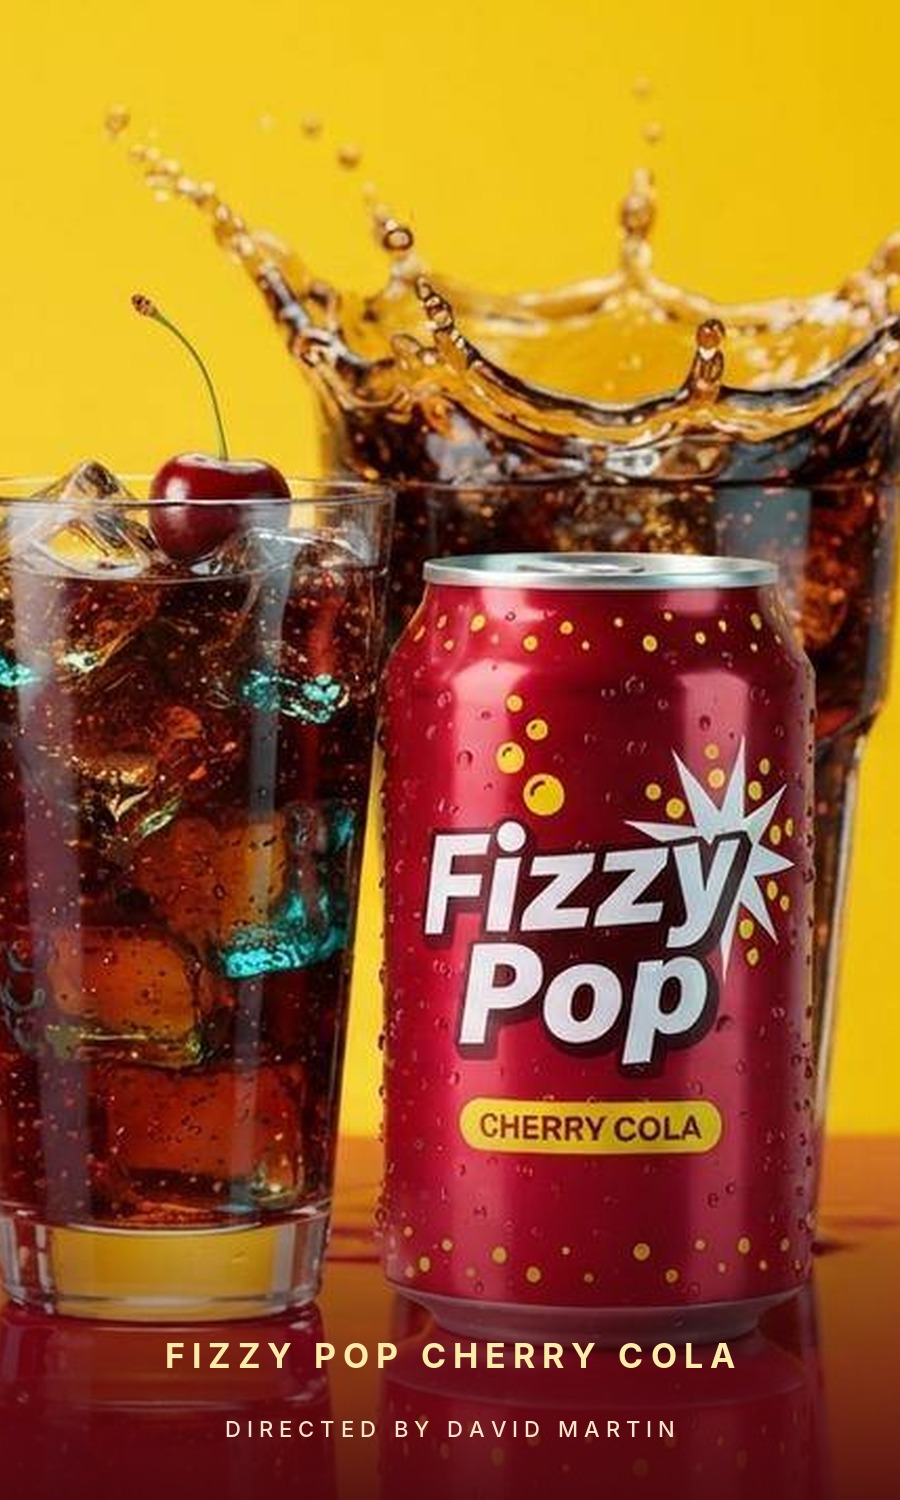
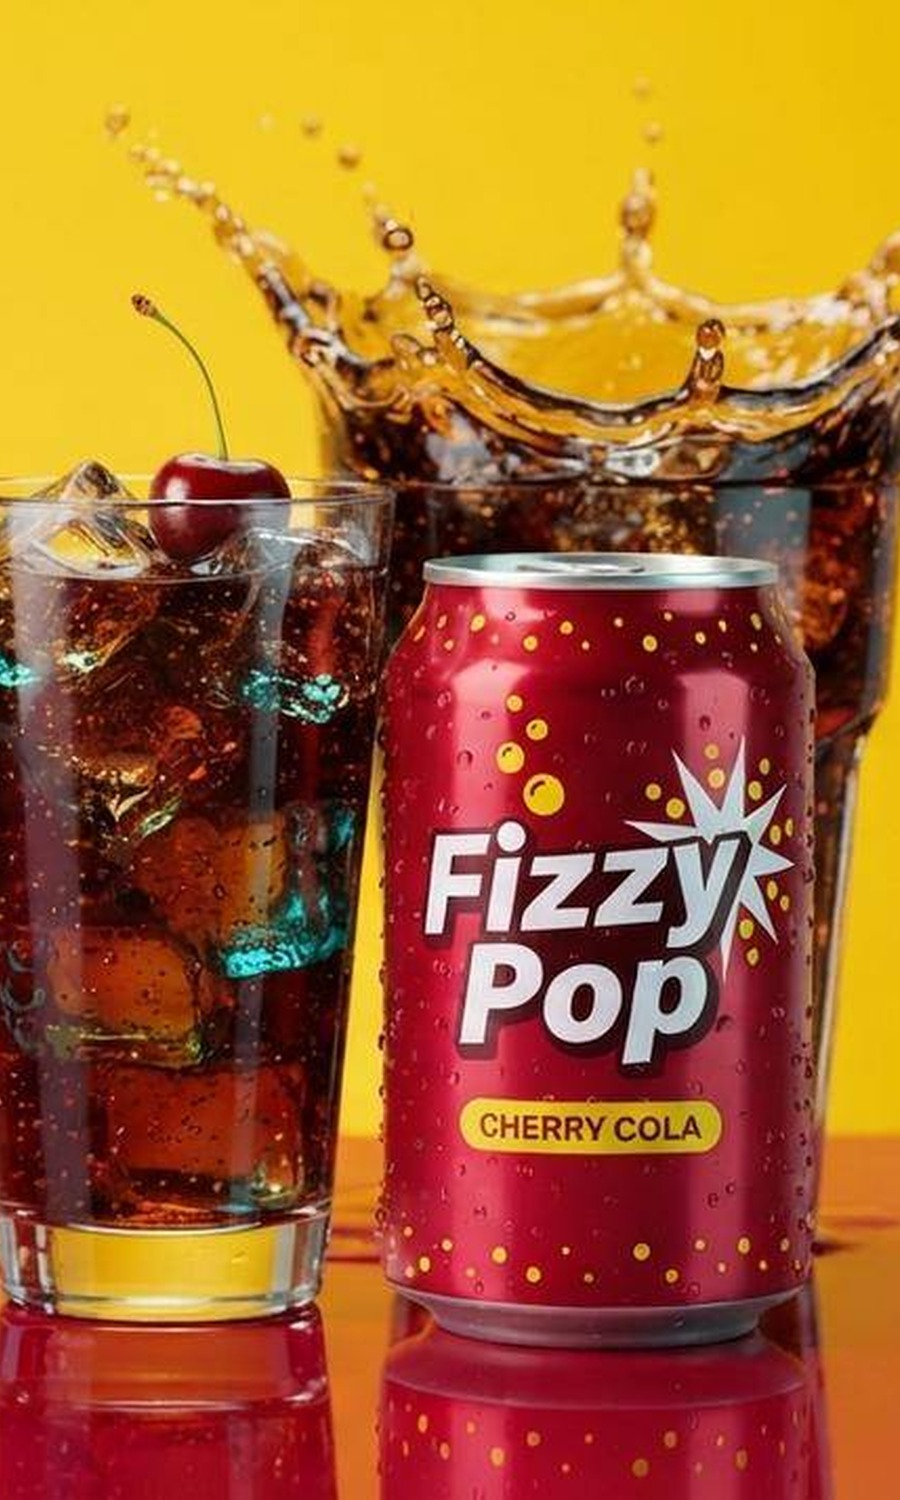
Home hero: text-free posters, Fizzy Pop label on the table bottle
Claude-Session: https://claude.ai/code/session_016tvzwU3cz4MoTCXz6b5jFJ

Changed region(s): [[0.0, 0.7973, 1.0, 1.0], [0.6844, 0.828, 0.7156, 0.8587]]

diff --git a/public/index.html b/public/index.html
@@ -1,5 +1,5 @@
 <!doctype html><html lang="en"><head><meta charset="utf-8"><meta name="viewport" content="width=device-width, initial-scale=1, viewport-fit=cover"><title>David Martin | Creative Professional</title><meta name="description" content="Creative Director with a video and visual-content specialty. I create and direct video, visual content, campaigns and digital experiences, combining creative direction with hands-on production and emerging AI technology."><link rel="canonical" href="https://studio.madebydavidmartin.com/"><meta name="theme-color" content="#231A10"><meta name="author" content="David Martin"><meta property="og:type" content="website"><meta property="og:site_name" content="David Martin, Creative Professional"><meta property="og:title" content="David Martin | Creative Professional"><meta property="og:description" content="Creative Director with a video and visual-content specialty. I create and direct video, visual content, campaigns and digital experiences, combining creative direction with hands-on production and emerging AI technology."><meta property="og:url" content="https://studio.madebydavidmartin.com/"><meta property="og:image" content="https://studio.madebydavidmartin.com/img/og-card.jpg?v=2"><meta property="og:image:width" content="1200"><meta property="og:image:height" content="630"><meta name="twitter:card" content="summary_large_image"><meta name="twitter:image" content="https://studio.madebydavidmartin.com/img/og-card.jpg?v=2"><link rel="icon" href="favicon.svg" type="image/svg+xml"><link rel="icon" href="favicon.ico" sizes="any"><link rel="apple-touch-icon" href="apple-touch-icon.png"><link rel="preconnect" href="https://fonts.googleapis.com"><link rel="preconnect" href="https://fonts.gstatic.com" crossorigin><link rel="stylesheet" href="https://fonts.googleapis.com/css2?family=Cormorant+Garamond:wght@300&family=IBM+Plex+Mono:wght@400;500&family=Caveat:wght@600&family=Geist:wght@400;500;600;700&family=Geist+Mono:wght@400;500&display=swap"><link rel="stylesheet" href="https://api.fontshare.com/v2/css?f[]=clash-display@600,700&display=swap">
-<link rel="preload" as="image" href="img/hero-banner.jpg?v=8" fetchpriority="high">
+<link rel="preload" as="image" href="img/hero-banner.jpg?v=9" fetchpriority="high">
 <link rel="stylesheet" href="styles.css?v=c1032"><style>body{margin:0}
 .flag-card{display:grid;grid-template-columns:minmax(240px,400px) 1fr;gap:28px;align-items:center;background:var(--card);border:1px solid var(--line);border-radius:0;overflow:hidden;color:var(--ink);margin:26px 0 4px}
 .flag-card video{width:100%;height:100%;object-fit:cover;display:block;aspect-ratio:16/9;background:#000}
@@ -116,7 +116,7 @@
 .cine{position:relative;isolation:isolate;--hero-photo-o:1}
 .cine{background:#E7D6B4;box-shadow:0 0 0 100vmax #E7D6B4}
 main .cine::after{background:linear-gradient(90deg,rgba(8,8,10,.74),rgba(8,8,10,.22) 55%,rgba(8,8,10,0) 80%)} /* Oct 2026: retire old hero-home.jpg now that hero-edit-suite.jpg is the hero background */
-.cine::before{content:"";position:absolute;top:0;bottom:0;left:50%;transform:translateX(-50%);width:100vw;z-index:0;pointer-events:none;opacity:0;animation:cineBgIn 1.8s ease .15s forwards;background:url("img/hero-banner.jpg?v=8") center 62%/cover no-repeat}
+.cine::before{content:"";position:absolute;top:0;bottom:0;left:50%;transform:translateX(-50%);width:100vw;z-index:0;pointer-events:none;opacity:0;animation:cineBgIn 1.8s ease .15s forwards;background:url("img/hero-banner.jpg?v=9") center 62%/cover no-repeat}
 .cine-in{position:relative;z-index:1}
 @keyframes cineBgIn{from{opacity:0}to{opacity:var(--hero-photo-o,.8)}}
 @media (prefers-reduced-motion:reduce){.cine::before{animation:none;opacity:var(--hero-photo-o,.8)}}
